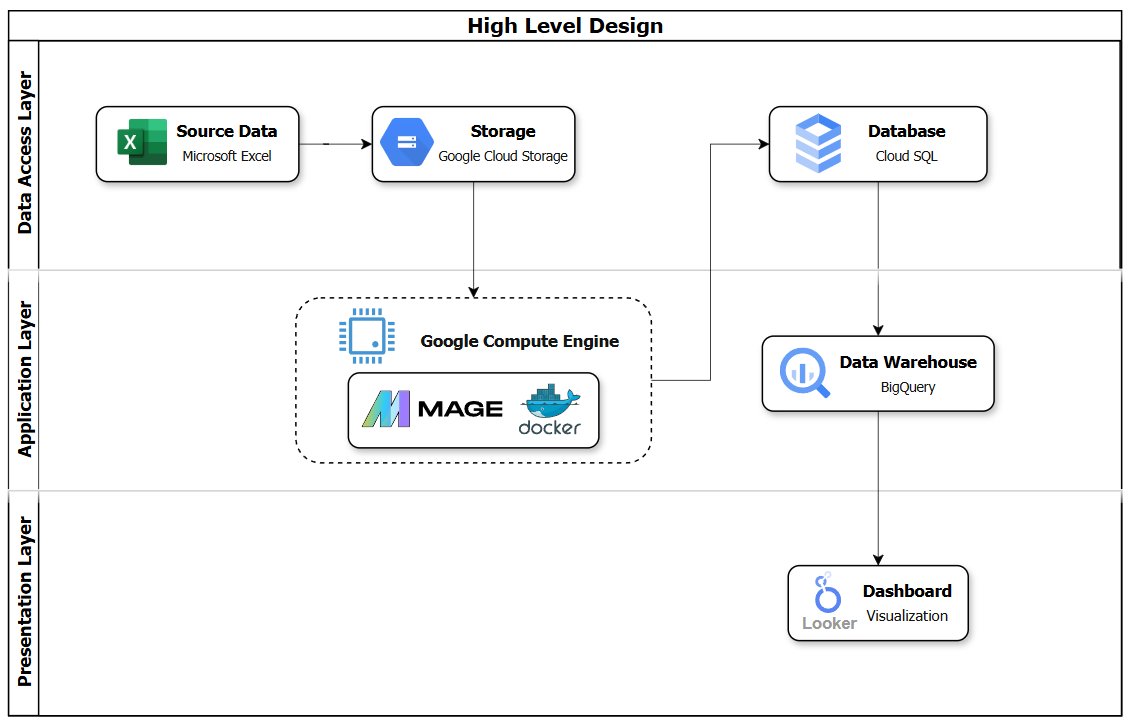
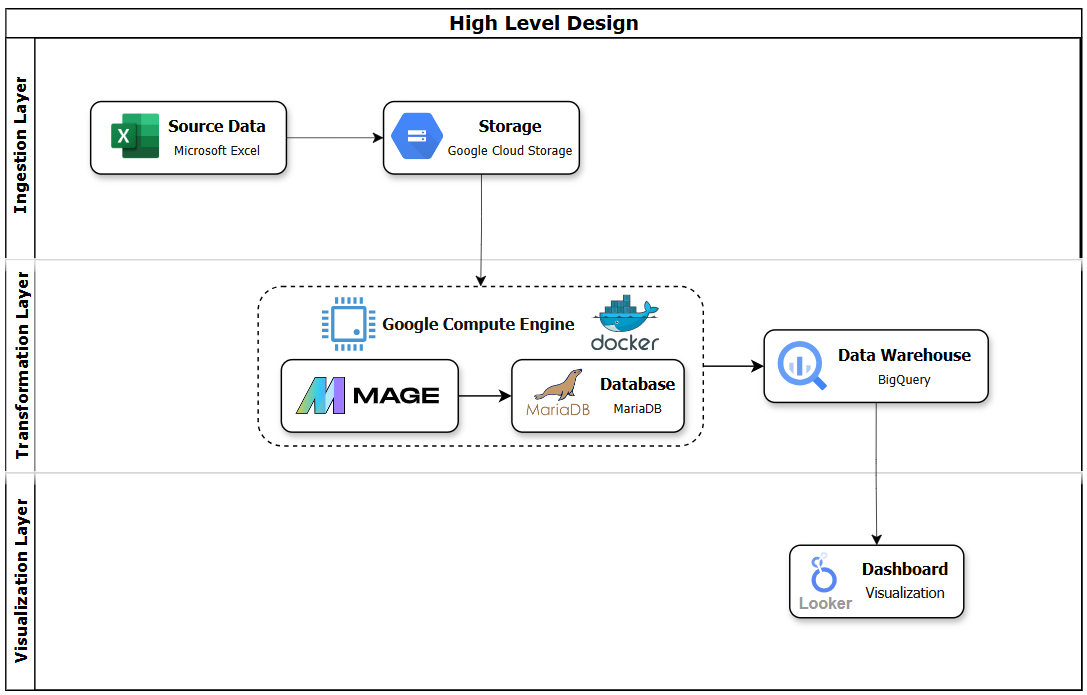
Updates

diff --git a/README.md b/README.md
@@ -1,5 +1,5 @@
 # Resolution Rate for Work Orders | Google Cloud & Mage Pipeline
-An end-to-end data pipleline solution to process and analyze Maintenance Work Orders using Mage, Google BigQuery, Cloud SQL, and Looker Studio. This prject features integration of cloud tools for scalable data storage, transformation, and visualization based on Client requirements.
+An end-to-end data pipleline solution to process and analyze Maintenance Work Orders using Mage, Google BigQuery, MariaDB, and Looker Studio. This prject features integration of cloud tools for scalable data storage, transformation, and visualization based on Client requirements.
 
 
 # Business Case
@@ -54,7 +54,7 @@ Mage will run via docker inside the Google Compute Engine Instance and will do t
 
 Google Compute Engine was selected as the compute tool as it provides scalable, high-performance VMs (virtual machines), integrates with other Google Cloud services (such as Cloud Storage and BigQuery) and enables efficient data processing. 
 
-MariaDB is used as the database (db) of choice running inside of Docker. The data is loaded to the MariaDB database then connected downstream to BigQuery. Although the current source data is ingested and processed in a batch mode, the near future client consideration for this solution is to directly write the transactional data from the ERP to the database in real time. Hence, the incorporation of MariaDB in this pipeline.
+MariaDB is used as the database (db) of choice running inside of Docker. It is an open-source, improved version of MySQL which offers faster performance, broader feature set, and active community development. The data is loaded to the MariaDB database then connected downstream to BigQuery. Although the current source data is ingested and processed in a batch mode, the near future client consideration for this solution is to directly write the transactional data from the ERP to the database in real time. Hence, the incorporation of MariaDB in this pipeline.
 
 BigQuery is used as the data warehousing tool as it is ideal for handling large-scale analytics queries and is already being used by the client’s firm as their primary data warehouse. It can also handle enormous amounts of data with near-instant query response time, using its distributed architecture.
 
